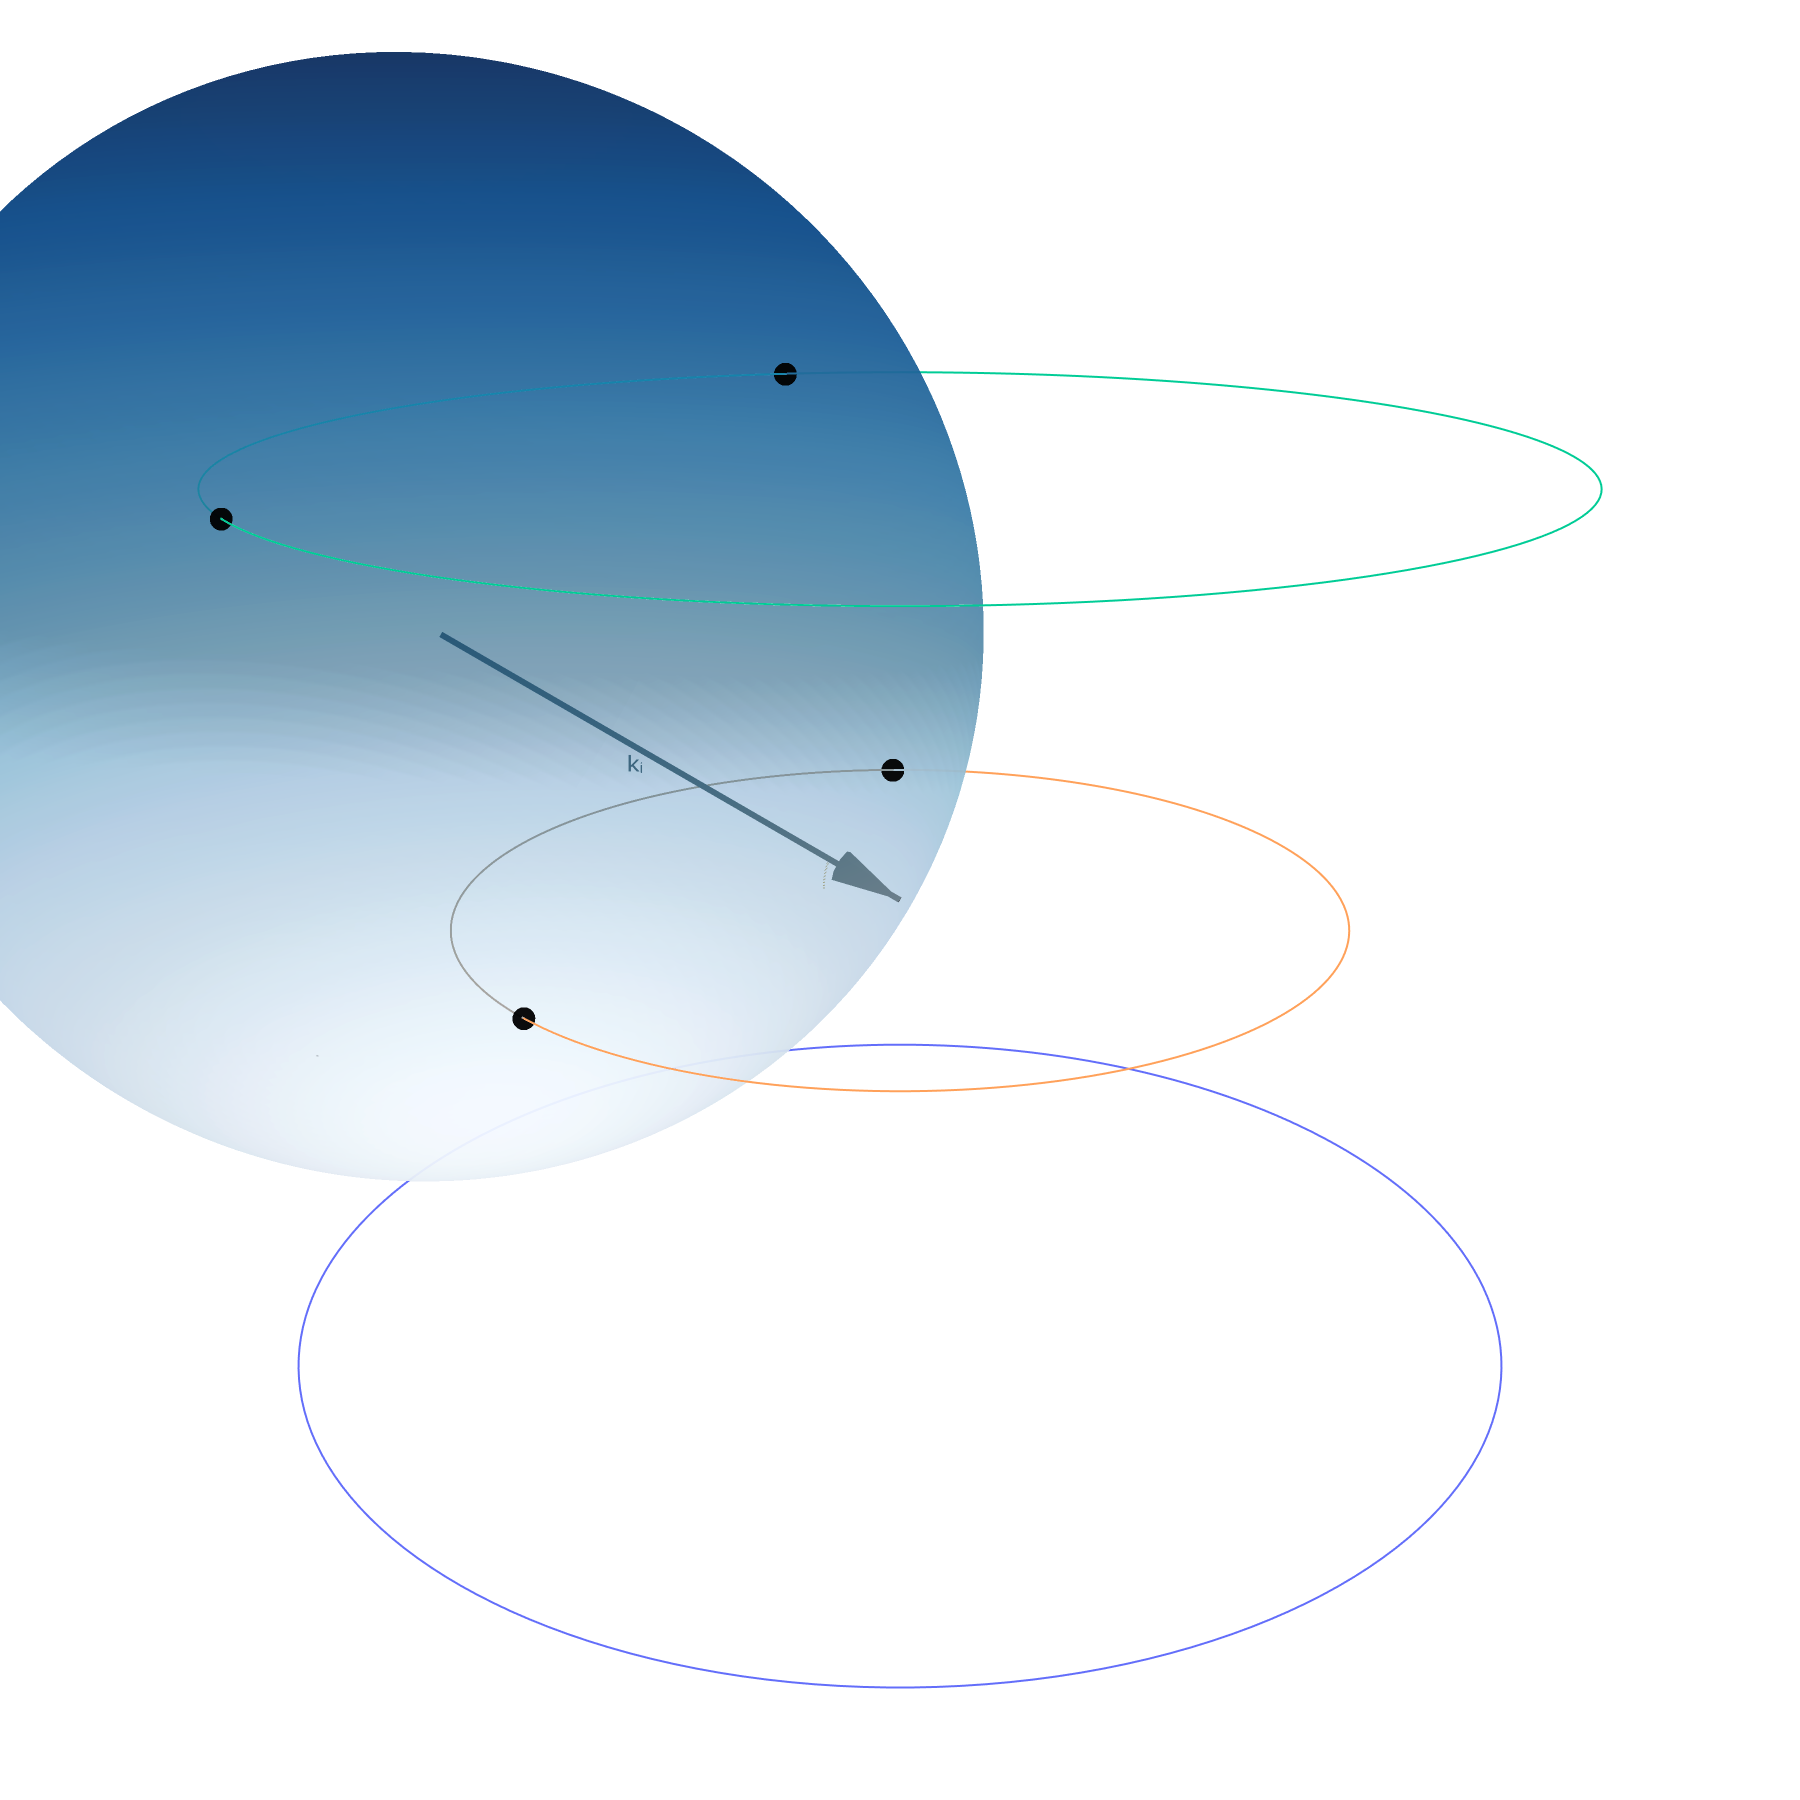
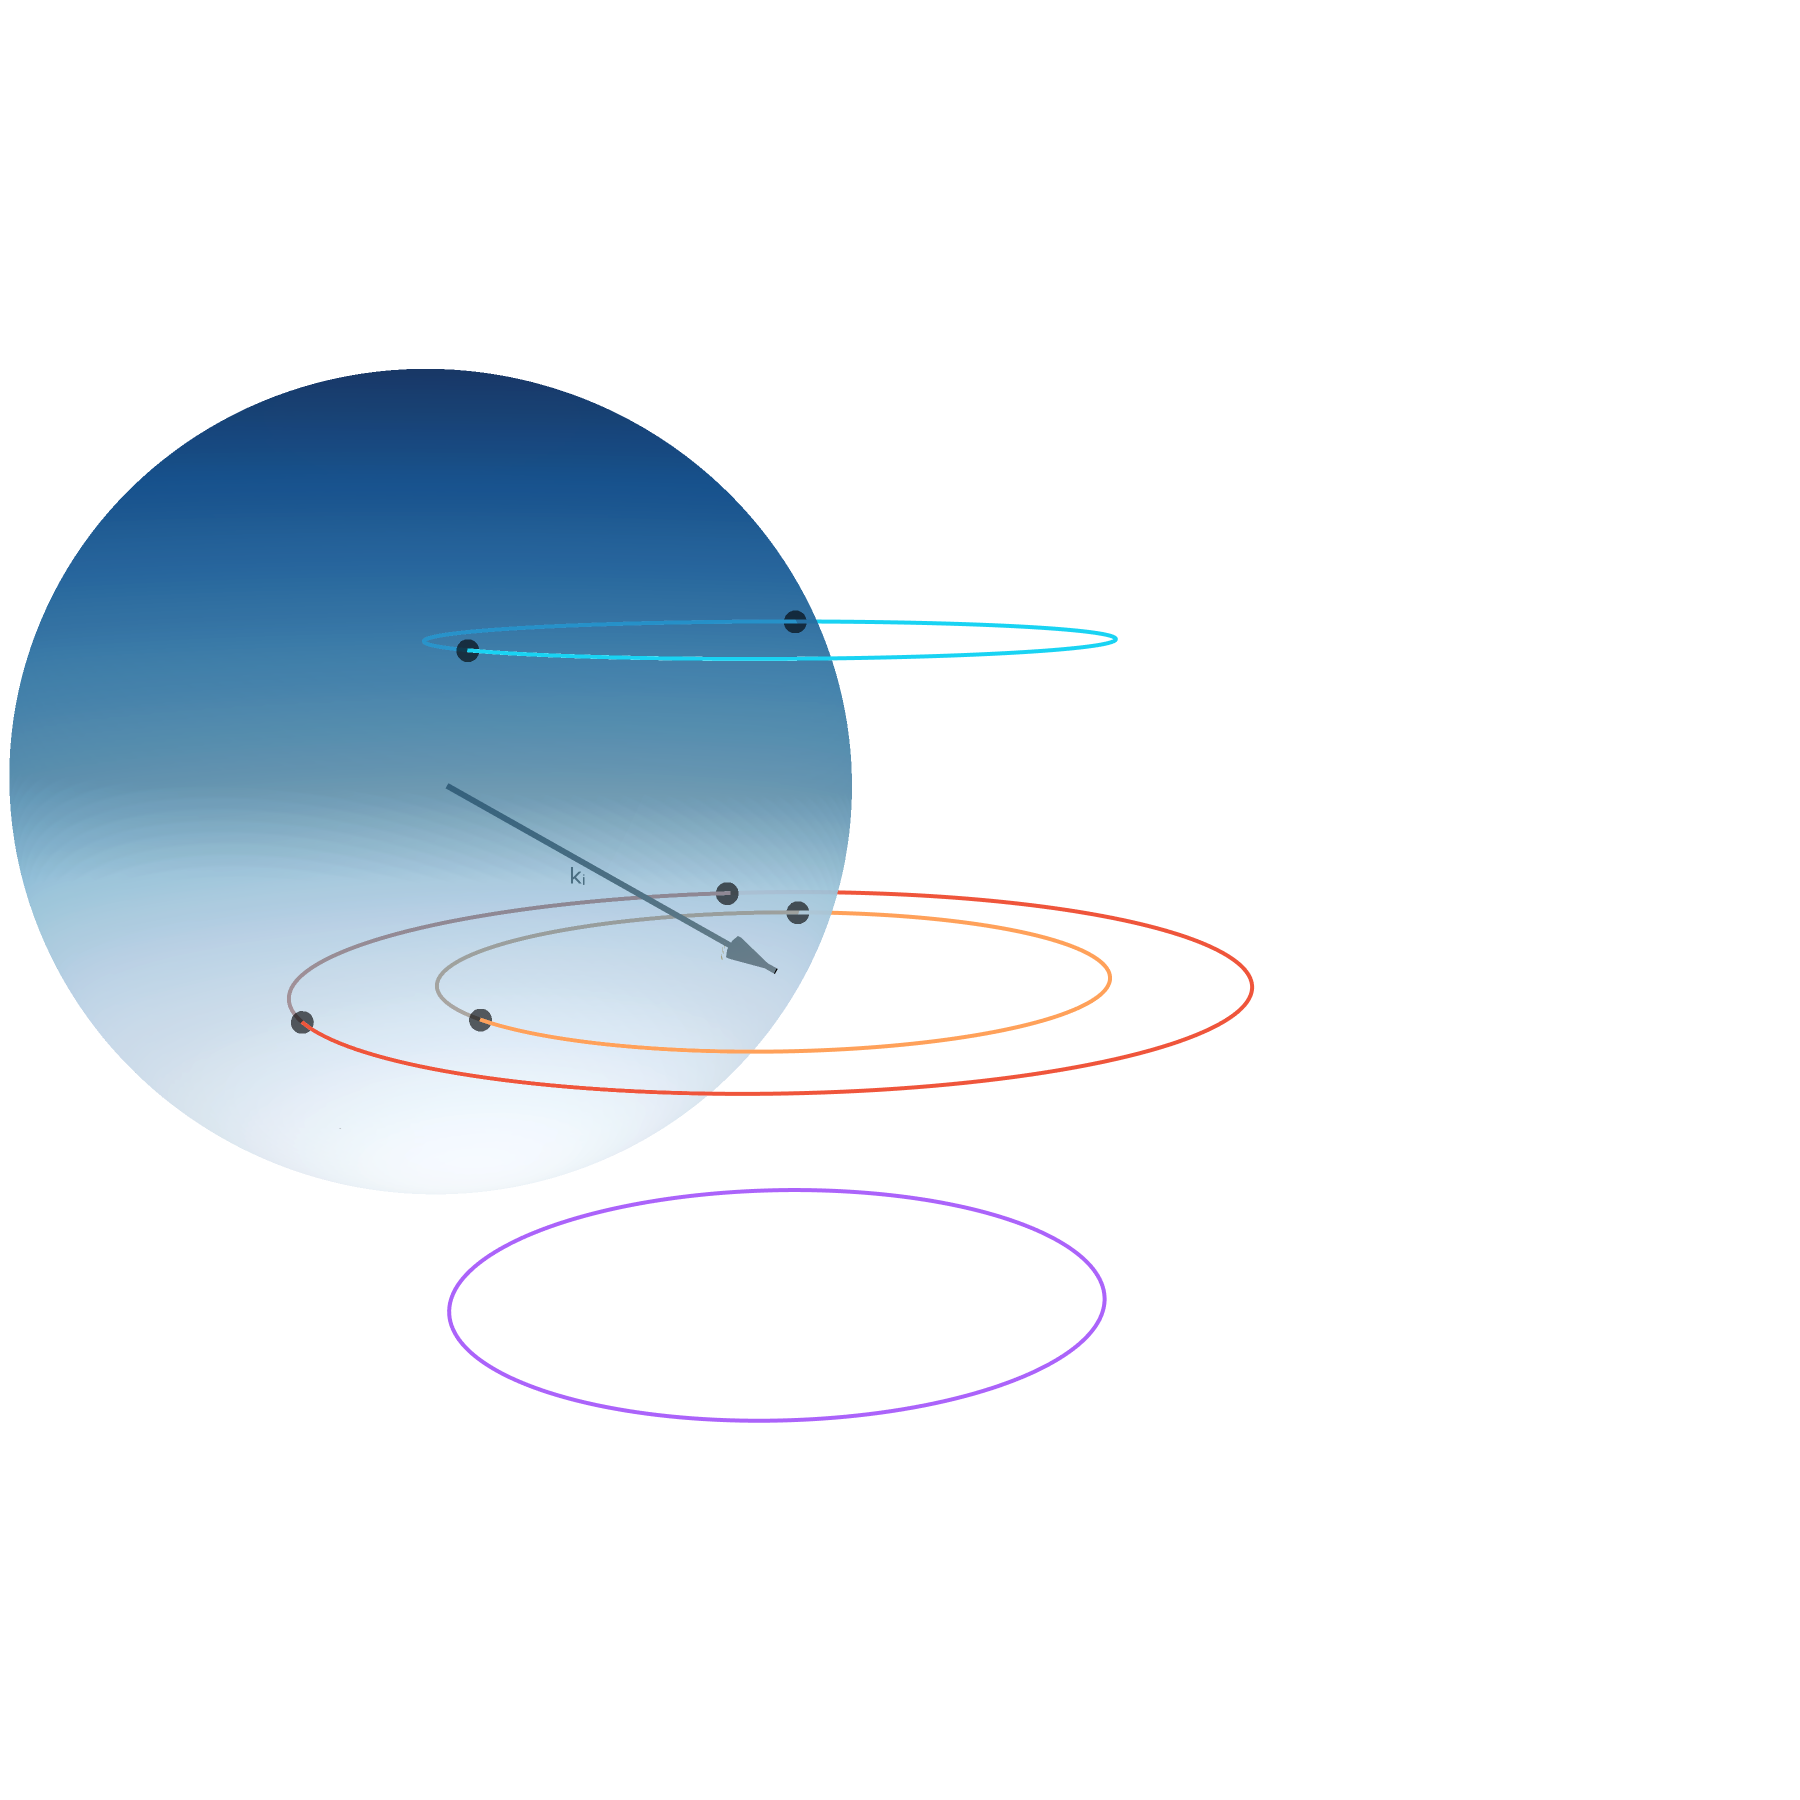
Updates from Overleaf

Changed region(s): [[0.0, 0.0311, 0.6222, 0.6222], [0.6222, 0.56, 0.6844, 0.5911], [0.0933, 0.6222, 0.1244, 0.6533]]

diff --git a/main.tex b/main.tex
@@ -28,6 +28,15 @@
 \usepackage[numbers,sort&compress]{natbib}
 % if you want PRB-like superscripts instead:
 \setcitestyle{super,comma,numbers,sort&compress}
+% Assumes: graphicx, subcaption are loaded.
+% Optional: keep this helper so the PDF shows visible placeholders before images exist.
+\newcommand{\maybeinclude}[2][]{%
+  \IfFileExists{#2}{\includegraphics[#1]{#2}}{%
+    \fbox{\begin{minipage}[c][0.22\textheight][c]{0.95\linewidth}
+      \centering\small PLACEHOLDER\\\texttt{#2}
+    \end{minipage}}%
+  }%
+}
 
 % ------------ figure toggles (all OFF by default) ------------
 \newif\ifshowIntroGridFigure      % intro 2x3 figure

diff --git a/sections/results_diffuse_pbi2.tex b/sections/results_diffuse_pbi2.tex
@@ -4,6 +4,14 @@ For disordered CVD grown PbI\textsubscript{2} we return to the Bragg
 sphere (cylinder) picture and introduce the Hendricks--Teller (H--T)
 stacking fault model used to describe the diffuse scattering.
 
+
+\begin{figure}[!ht]
+  \centering
+  \includegraphics[width=0.3\linewidth]{figures/intro/reciprocal_cylinder.png}
+  \caption{Reciprocal cylinders}
+  \label{fig:mosaic_pbi2}
+\end{figure}
+
 \begin{itemize}
   \item Motivate the model with experimental data.
   \item Outline the H--T model for PbI\textsubscript{2}.
